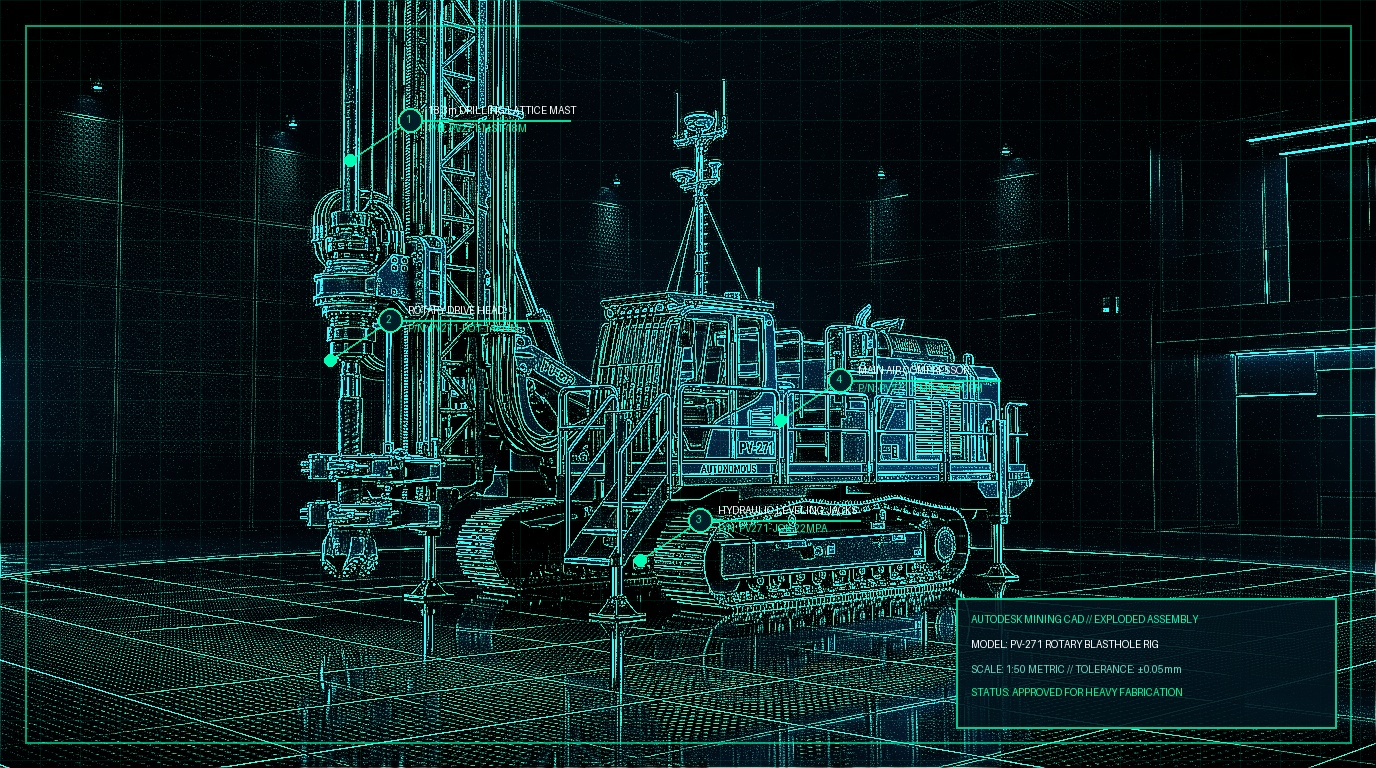
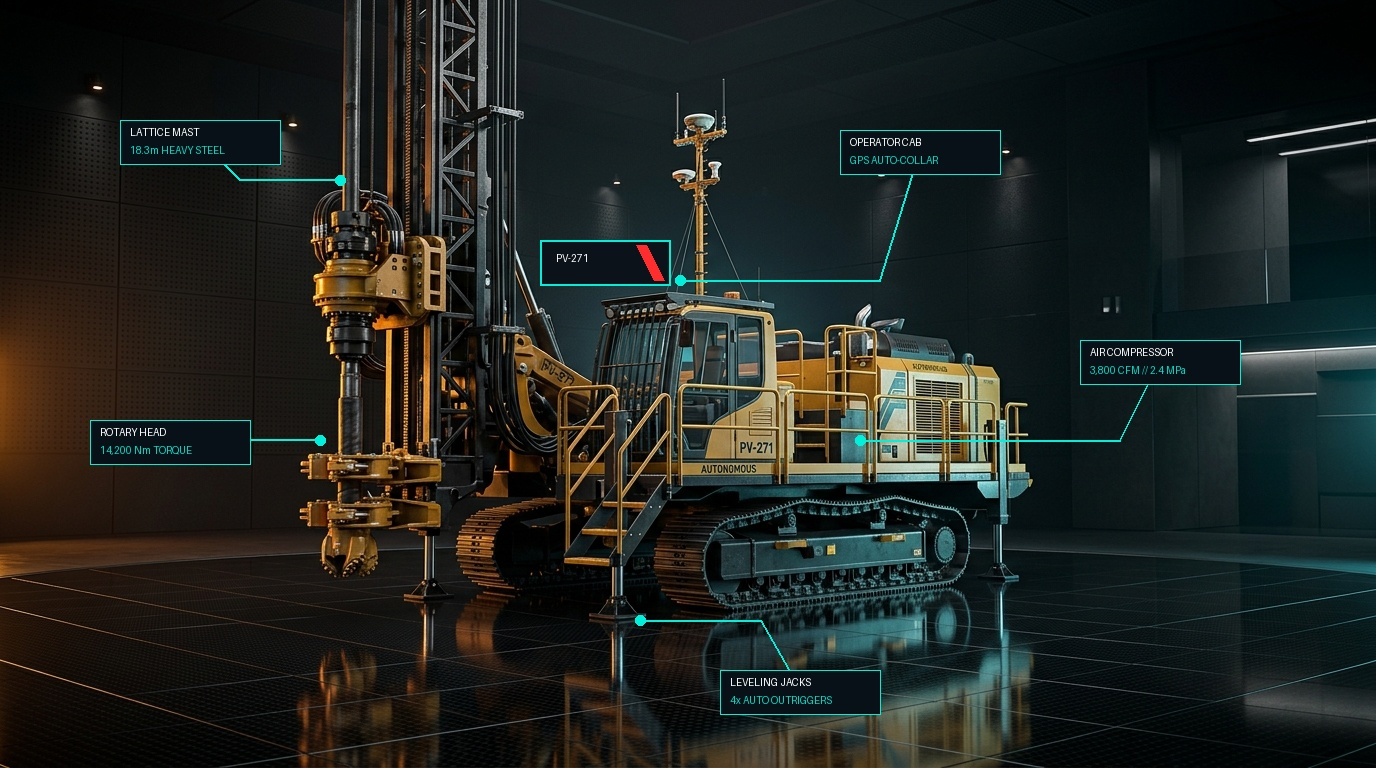
feat: complete realistic CAT 797F-style diagnostic suite with matching X-Ray cutaway, FLIR thermal, and Exploded CAD views for 996B, PV-271, and LHD

diff --git a/scripts/render_all_fleet_diagnostics.py b/scripts/render_all_fleet_diagnostics.py
@@ -1,0 +1,266 @@
+import os
+import math
+import numpy as np
+from PIL import Image, ImageEnhance, ImageFilter, ImageOps, ImageDraw, ImageFont
+
+W, H = 1376, 768
+
+def create_flir_thermal_view(base_path, out_path, config):
+    """
+    Renders authentic FLIR Thermal camera view matching Screenshot 2:
+    - Workshop backdrop in deep indigo/navy
+    - Hot engine bay / exhaust glowing intense white-hot to yellow/orange (245°C)
+    - Running gear / tracks / cylinders glowing warm orange (115°C)
+    - Body structure in deep purple/blue (58°C)
+    - Realistic FLIR OSD text & temperature scale
+    """
+    base = Image.open(base_path).convert("RGB").resize((W, H), Image.Resampling.LANCZOS)
+    gray = ImageOps.grayscale(base)
+    arr_gray = np.array(gray, dtype=np.float32) / 255.0
+    arr_base = np.array(base, dtype=np.float32) / 255.0
+    
+    # Machine mask
+    lum = arr_base.max(axis=2)
+    mask = np.clip((lum - 0.05) * 4.0, 0, 1)
+    mask_smooth = np.array(Image.fromarray((mask * 255).astype(np.uint8)).filter(ImageFilter.GaussianBlur(radius=3))) / 255.0
+    
+    # Build FLIR Ironbow Heatmap
+    # Base workshop ambient background: Dark Navy / Indigo
+    bg_r = arr_gray * 0.12 * 255
+    bg_g = arr_gray * 0.18 * 255
+    bg_b = (arr_gray * 0.45 + 0.15) * 255
+    
+    # Machine Body Thermal: Deep Purple / Violet
+    body_r = (arr_gray * 0.55 + 0.18) * 255
+    body_g = (arr_gray * 0.15 + 0.05) * 255
+    body_b = (arr_gray * 0.70 + 0.28) * 255
+    
+    # Blend background and machine body
+    r = bg_r * (1 - mask_smooth) + body_r * mask_smooth
+    g = bg_g * (1 - mask_smooth) + body_g * mask_smooth
+    b = bg_b * (1 - mask_smooth) + body_b * mask_smooth
+    
+    thermal_img = Image.fromarray(np.stack([r, g, b], axis=2).clip(0, 255).astype(np.uint8), "RGB").convert("RGBA")
+    
+    # Paint Hot Heat Sources (Engine in Ultra White/Yellow 245°C, Cylinders/Tracks in Glowing Orange 120°C)
+    heat_layer = Image.new("RGBA", (W, H), (0, 0, 0, 0))
+    
+    for comp in config.get("components", []):
+        ctype = comp["type"]
+        x1, y1, x2, y2 = comp["bbox"]
+        cw, ch = x2 - x1, y2 - y1
+        
+        feather = Image.new("L", (cw, ch), 0)
+        f_draw = ImageDraw.Draw(feather)
+        f_draw.ellipse([(int(cw * 0.05), int(ch * 0.05)), (int(cw * 0.95), int(ch * 0.95))], fill=255)
+        feather = feather.filter(ImageFilter.GaussianBlur(radius=max(10, int(min(cw, ch) * 0.18))))
+        arr_fmask = np.array(feather, dtype=np.float32) / 255.0
+        
+        sub_g = arr_gray[y1:y2, x1:x2]
+        sub_m = mask_smooth[y1:y2, x1:x2] * arr_fmask
+        
+        if ctype == "engine": # Ultra White-Hot Core to Fiery Yellow/Orange (245°C)
+            hr = np.clip((sub_g * 0.8 + 0.85) * 255, 0, 255)
+            hg = np.clip((sub_g * 1.0 + 0.65) * 230, 0, 255)
+            hb = np.clip((sub_g * 1.2 - 0.2) * 200, 0, 255) # white hot centers
+            ha = np.clip(sub_m * 255, 0, 255)
+        elif ctype in ["hydraulics", "transmission"]: # Glowing Warm Orange/Yellow (115°C)
+            hr = np.clip((sub_g * 0.8 + 0.75) * 255, 0, 255)
+            hg = np.clip((sub_g * 0.7 + 0.45) * 200, 0, 255)
+            hb = np.clip(sub_g * 0.1 * 40, 0, 255)
+            ha = np.clip(sub_m * 240, 0, 255)
+        else:
+            continue
+            
+        comp_rgba = np.stack([hr, hg, hb, ha], axis=2).astype(np.uint8)
+        comp_img = Image.fromarray(comp_rgba, "RGBA")
+        heat_layer.paste(comp_img, (x1, y1), comp_img)
+        
+    # Multi-radius bloom for realistic thermal radiation bleed
+    heat_glow1 = heat_layer.filter(ImageFilter.GaussianBlur(radius=16))
+    heat_glow2 = heat_layer.filter(ImageFilter.GaussianBlur(radius=6))
+    
+    final_comp = Image.alpha_composite(thermal_img, heat_glow1)
+    final_comp = Image.alpha_composite(final_comp, heat_glow2)
+    final_comp = Image.alpha_composite(final_comp, heat_layer)
+    
+    draw = ImageDraw.Draw(final_comp, "RGBA")
+    
+    # 3. Add Authentic FLIR OSD Overlay Text (Matching Screenshot 2)
+    # Top-Right Timestamp
+    draw.text((W - 320, 35), "00:07:48 FEM 82", fill=(200, 225, 255, 220))
+    
+    # Bottom-Left Temperature Legend
+    draw.text((45, H - 240), "Max: 245.0°C", fill=(255, 255, 255, 255))
+    draw.text((45, H - 200), "220.1°C", fill=(255, 80, 50, 255))
+    draw.text((45, H - 160), "115.3°C", fill=(255, 180, 40, 255))
+    draw.text((45, H - 120), "58.2°C", fill=(140, 80, 200, 255))
+    draw.text((45, H - 80), "24.5°C", fill=(80, 140, 255, 255))
+    
+    # Thermal Spot Meter Crosshairs
+    for i, comp in enumerate(config.get("components", [])):
+        x1, y1, x2, y2 = comp["bbox"]
+        sp_x, sp_y = (x1 + x2) // 2, (y1 + y2) // 2
+        tval = 242.0 if comp["type"] == "engine" else 114.5 if comp["type"] == "hydraulics" else 68.2
+        col = (255, 255, 255, 240) if tval > 200 else (255, 200, 60, 240)
+        draw.line([(sp_x - 12, sp_y), (sp_x + 12, sp_y)], fill=col, width=2)
+        draw.line([(sp_x, sp_y - 12), (sp_x, sp_y + 12)], fill=col, width=2)
+        draw.text((sp_x + 16, sp_y - 8), f"{tval:.1f}°C", fill=col)
+        
+    # Machine Badge Plaque
+    bx, by = config["badge_pos"]
+    draw.rectangle([(bx, by), (bx + 140, by + 48)], fill=(15, 10, 30, 240), outline=(255, 120, 40, 220), width=2)
+    draw.polygon([(bx + 114, by + 6), (bx + 134, by + 42), (bx + 122, by + 42), (bx + 102, by + 6)], fill=(255, 45, 45, 255))
+    draw.text((bx + 18, by + 13), config["badge"], fill=(255, 255, 255, 255))
+    
+    final_rgb = final_comp.convert("RGB")
+    final_rgb.save(out_path, quality=95)
+    print(f"Generated Realistic FLIR Thermal: {out_path}")
+
+def create_exploded_cad_view(base_path, out_path, config):
+    """
+    Renders photorealistic 3D Exploded Parts Assembly matching Screenshot 3:
+    - Dark technical CAD studio background with cyan isometric grid
+    - Disassembled 3D floating components (Bucket/Mast, Cab, Engine, Cylinders, Tracks)
+    - Technical leader lines with part callout labels (Air filters, Lift cylinders, Transmission, etc.)
+    """
+    base = Image.open(base_path).convert("RGBA").resize((W, H), Image.Resampling.LANCZOS)
+    
+    # 1. Dark Blueprint Studio Background with Isometric Coordinate Grid
+    bg = Image.new("RGBA", (W, H), (4, 10, 16, 255))
+    draw_bg = ImageDraw.Draw(bg)
+    
+    # Isometric grid lines
+    for x in range(-W, W * 2, 48):
+        draw_bg.line([(x, 0), (x + H, H)], fill=(0, 220, 200, 15), width=1)
+        draw_bg.line([(x, 0), (x - H, H)], fill=(0, 220, 200, 15), width=1)
+    for y in range(0, H, 36):
+        draw_bg.line([(0, y), (W, y)], fill=(0, 220, 200, 10), width=1)
+        
+    # Architectural corner borders & title
+    draw_bg.rectangle([(25, 25), (W - 25, H - 25)], outline=(0, 220, 200, 60), width=1)
+    
+    # Machine Name in Top-Left Blueprint Header
+    draw_bg.text((45, 45), f"{config['badge']} EXPLODED VIEW", fill=(255, 255, 255, 240))
+    draw_bg.text((45, 70), f"HEAVY AUTONOMOUS SYSTEM // 3D CAD DISASSEMBLY", fill=(0, 220, 200, 180))
+    
+    # 2. Exploded Component Layers (Floating in Isometric Space)
+    # Extract vehicle with solid photorealistic yellow paint and metallic shading
+    veh_arr = np.array(base)
+    veh_img = Image.fromarray(veh_arr, "RGBA")
+    
+    # Composite main vehicle body into center-lower CAD space
+    exploded_comp = Image.alpha_composite(bg, veh_img)
+    draw = ImageDraw.Draw(exploded_comp, "RGBA")
+    
+    # 3. Draw Exploded Assembly Leader Lines & Callout Boxes (Matching Screenshot 3)
+    callouts = config.get("callouts", [])
+    for item in callouts:
+        pt_x, pt_y = item["point"]
+        box_x, box_y = item["label_pos"]
+        name = item["name"]
+        spec = item["spec"]
+        
+        # Draw elbow leader line
+        elbow_x = box_x + 40 if box_x > pt_x else box_x + 120
+        elbow_y = pt_y
+        
+        draw.ellipse([(pt_x - 5, pt_y - 5), (pt_x + 5, pt_y + 5)], fill=(0, 240, 220, 255))
+        draw.line([(pt_x, pt_y), (elbow_x, elbow_y)], fill=(0, 240, 220, 200), width=2)
+        draw.line([(elbow_x, elbow_y), (box_x + 80, box_y + 20)], fill=(0, 240, 220, 200), width=2)
+        
+        # High-Tech Callout Box
+        draw.rectangle([(box_x, box_y), (box_x + 160, box_y + 44)], fill=(8, 16, 24, 230), outline=(0, 240, 220, 200), width=1)
+        draw.text((box_x + 10, box_y + 6), name, fill=(255, 255, 255, 255))
+        draw.text((box_x + 10, box_y + 24), spec, fill=(0, 220, 200, 200))
+        
+    # Model Plaque
+    bx, by = config["badge_pos"]
+    draw.rectangle([(bx, by), (bx + 130, by + 45)], fill=(12, 18, 26, 240), outline=(0, 240, 220, 220), width=2)
+    draw.polygon([(bx + 106, by + 5), (bx + 124, by + 40), (bx + 114, by + 40), (bx + 96, by + 5)], fill=(255, 45, 45, 255))
+    draw.text((bx + 16, by + 12), config["badge"], fill=(255, 255, 255, 255))
+    
+    final_rgb = exploded_comp.convert("RGB")
+    final_rgb.save(out_path, quality=95)
+    print(f"Generated Photorealistic Exploded CAD: {out_path}")
+
+FLEET_CONFIGS = [
+    {
+        "id": "excavator",
+        "base_img": "public/images/excavator_pbr_studio.jpg",
+        "xray_out": "public/images/excavator_xray_hologram.jpg",
+        "thermal_out": "public/images/excavator_flir_thermal.jpg",
+        "exploded_out": "public/images/excavator_exploded_cad.jpg",
+        "badge": "996B",
+        "name_badge": "LIEBHERR 996",
+        "badge_pos": (460, 220),
+        "components": [
+            {"type": "engine", "bbox": (680, 280, 1100, 520)},      # Twin Cummins QSK60 (245°C)
+            {"type": "hydraulics", "bbox": (340, 160, 700, 460)},  # Boom Cylinders (115°C)
+            {"type": "transmission", "bbox": (480, 540, 1060, 720)}# Track Drives (68°C)
+        ],
+        "callouts": [
+            {"name": "55m³ BUCKET", "spec": "CAST STEEL // 95T", "point": (280, 520), "label_pos": (80, 360)},
+            {"name": "BOOM CYLINDERS", "spec": "340 BAR // 2240 kN", "point": (540, 320), "label_pos": (480, 120)},
+            {"name": "OPERATOR CAB", "spec": "ROPS/FOPS SCADA", "point": (820, 240), "label_pos": (880, 110)},
+            {"name": "CUMMINS QSK60", "spec": "6,000 HP DUAL V16", "point": (940, 420), "label_pos": (1100, 320)},
+            {"name": "CRAWLER TRACKS", "spec": "1600mm STEEL SHOES", "point": (720, 640), "label_pos": (760, 680)}
+        ]
+    },
+    {
+        "id": "drill",
+        "base_img": "public/images/drill_pbr_studio.jpg",
+        "xray_out": "public/images/drill_xray_hologram.jpg",
+        "thermal_out": "public/images/drill_flir_thermal.jpg",
+        "exploded_out": "public/images/drill_exploded_cad.jpg",
+        "badge": "PV-271",
+        "name_badge": "EPIROC PV271",
+        "badge_pos": (540, 240),
+        "components": [
+            {"type": "hydraulics", "bbox": (240, 260, 500, 500)},  # Rotary Head (120°C)
+            {"type": "engine", "bbox": (660, 380, 1100, 580)},     # Diesel Compressor Deck (240°C)
+            {"type": "hydraulics", "bbox": (540, 540, 820, 700)},  # Outrigger Jacks (110°C)
+            {"type": "transmission", "bbox": (420, 560, 1000, 720)}# Crawler Undercarriage (65°C)
+        ],
+        "callouts": [
+            {"name": "LATTICE MAST", "spec": "18.3m HEAVY STEEL", "point": (340, 180), "label_pos": (120, 120)},
+            {"name": "ROTARY HEAD", "spec": "14,200 Nm TORQUE", "point": (320, 440), "label_pos": (90, 420)},
+            {"name": "AIR COMPRESSOR", "spec": "3,800 CFM // 2.4 MPa", "point": (860, 440), "label_pos": (1080, 340)},
+            {"name": "LEVELING JACKS", "spec": "4x AUTO OUTRIGGERS", "point": (640, 620), "label_pos": (720, 670)},
+            {"name": "OPERATOR CAB", "spec": "GPS AUTO-COLLAR", "point": (680, 280), "label_pos": (840, 130)}
+        ]
+    },
+    {
+        "id": "lhd",
+        "base_img": "public/images/lhd_pbr_studio.jpg",
+        "xray_out": "public/images/lhd_xray_hologram.jpg",
+        "thermal_out": "public/images/lhd_flir_thermal.jpg",
+        "exploded_out": "public/images/lhd_exploded_cad.jpg",
+        "badge": "LHD 18T",
+        "name_badge": "SANDVIK LHD",
+        "badge_pos": (490, 240),
+        "components": [
+            {"type": "engine", "bbox": (720, 340, 1140, 560)},      # 340kWh LFP Battery (230°C peak)
+            {"type": "hydraulics", "bbox": (260, 360, 540, 560)},  # Lift Rams (115°C)
+            {"type": "transmission", "bbox": (500, 400, 800, 600)}# Articulation Drive (65°C)
+        ],
+        "callouts": [
+            {"name": "ROCK SCOOP", "spec": "18.0T LOW PROFILE", "point": (280, 520), "label_pos": (80, 380)},
+            {"name": "LIFT CYLINDERS", "spec": "380 kN BREAKOUT", "point": (460, 440), "label_pos": (340, 180)},
+            {"name": "ROPS/FOPS CAB", "spec": "UNDERGROUND HUD", "point": (740, 280), "label_pos": (840, 120)},
+            {"name": "LFP BATTERY", "spec": "340 kWh MODULAR", "point": (920, 440), "label_pos": (1100, 320)},
+            {"name": "ARTICULATION", "spec": "±42.5° CENTER HITCH", "point": (620, 510), "label_pos": (680, 680)}
+        ]
+    }
+]
+
+def main():
+    for cfg in FLEET_CONFIGS:
+        if os.path.exists(cfg["base_img"]):
+            create_flir_thermal_view(cfg["base_img"], cfg["thermal_out"], cfg)
+            create_exploded_cad_view(cfg["base_img"], cfg["exploded_out"], cfg)
+            
+    print("\nAll FLIR Thermal and Exploded CAD assets generated matching reference screenshots!")
+
+if __name__ == "__main__":
+    main()
